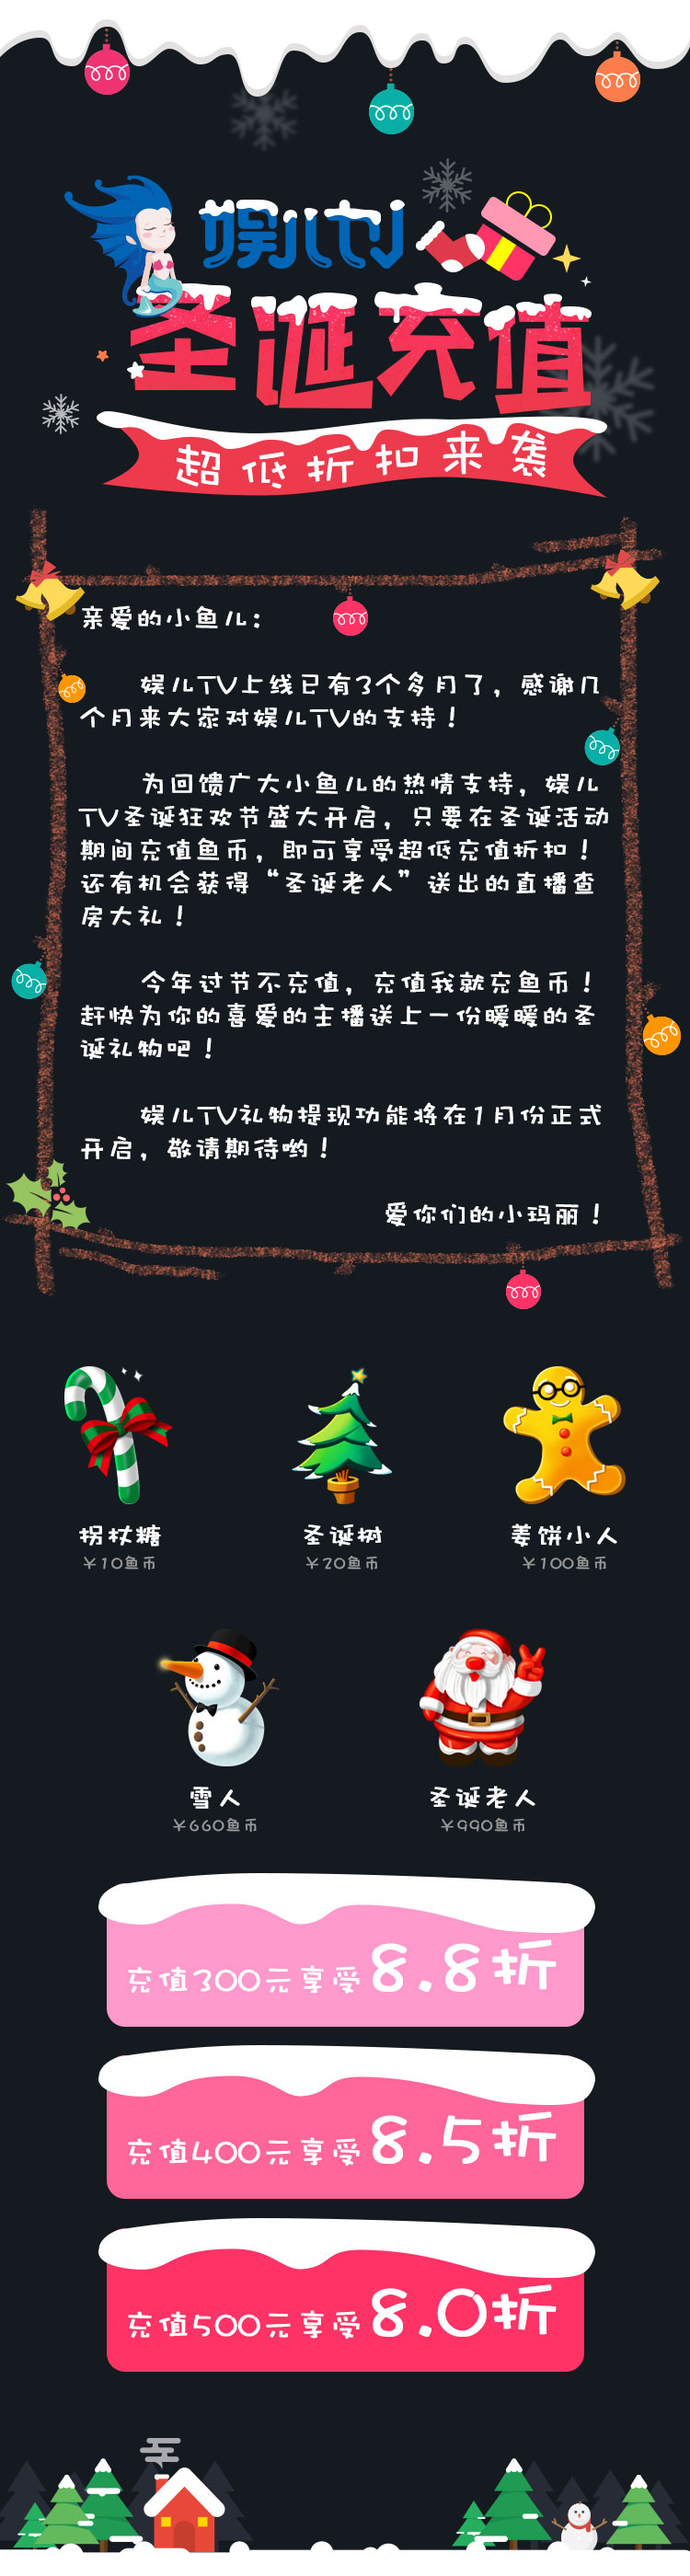
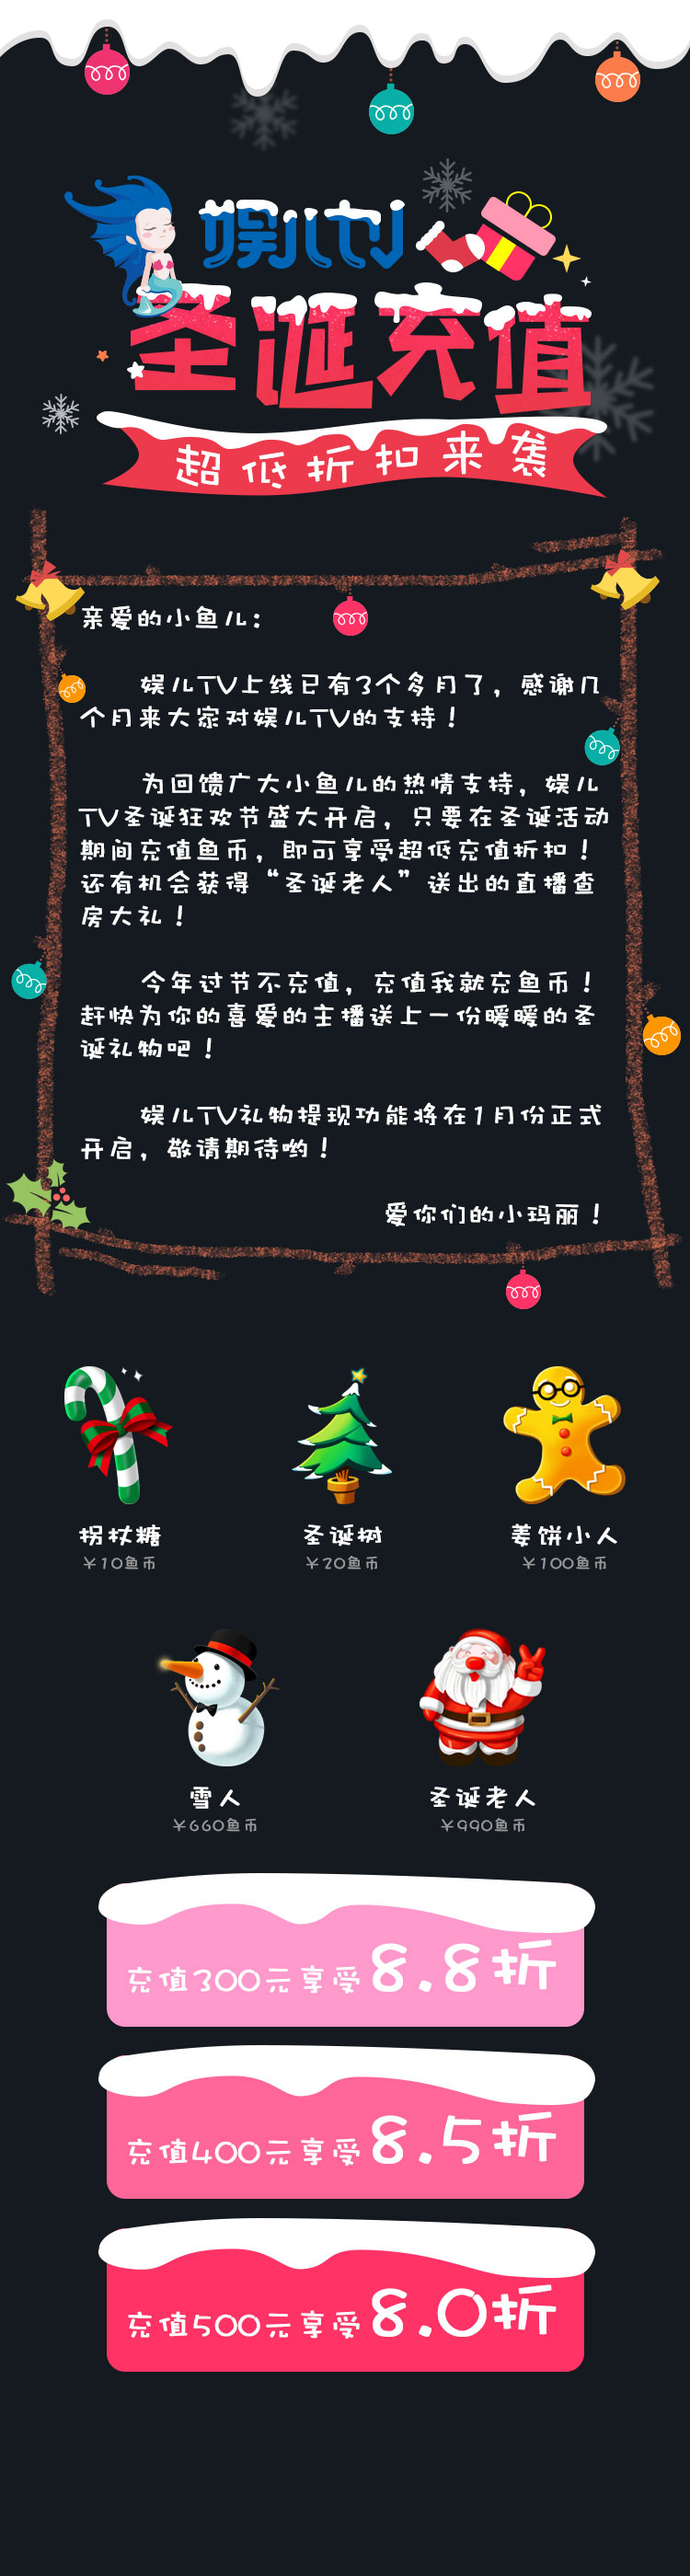
update

Changed region(s): [[0.0, 0.9321, 1.0, 1.0]]

diff --git a/server/views/activity/christmas.html b/server/views/activity/christmas.html
@@ -6,6 +6,7 @@
     <meta name="apple-mobile-web-app-capable" content="yes" />
     <meta content="telephone=no" name="format-detection" />
 	<title>这个圣诞节，主播的鱼塘都被我承包了！</title>
+	<script src="/jquery.js"></script>
 	<script src="/jquery.sha1.js"></script>
 	<script src="/wxjsapi.js"></script>
 	<script src="http://res.wx.qq.com/open/js/jweixin-1.0.0.js"></script>
@@ -73,6 +74,10 @@
 		                transform: rotate(360deg);
 		    }
 		}
+		.bottom{
+			position: fixed;
+			bottom: 0;
+		}
 		.button{
 			position: absolute;
 			width: 32%;
@@ -103,16 +108,18 @@
 	   	<audio autoplay="true" loop="loop" id="Jaudio">
 			<source src="/activity/images/christmas.mp3" type="audio/mpeg">
 		</audio>
-		<a href="https://yuertvfile.wangyuhudong.com/" class="button"><img src="/activity/images/christmas_download.png" alt=""></a>
+		<div class="bottom">
+			<img src="/activity/images/christmas_bottom.png" alt="">
+			<a href="https://yuertvfile.wangyuhudong.com/" class="button"><img src="/activity/images/christmas_download.png" alt=""></a>
+		</div>		
 	</div>
-	<script src="/jquery.js"></script>
 	<script src="/activity/js/snow-plugin.js"></script>
 	<script>
 		$(function(){
 			$(".snow-canvas").snow();
 
 			var ua = navigator.userAgent.toLowerCase(); 
-			if(ua.match(/YuertvBrowser/i)!="yuertvbrowser"){
+			if(ua.match(/YuertvBrowser/i)=="yuertvbrowser"){
 				$('.button').attr('href','yuertvopen://recharge').html('<img src="/activity/images/christmas_recharge.png" alt="">');
 			}
 
